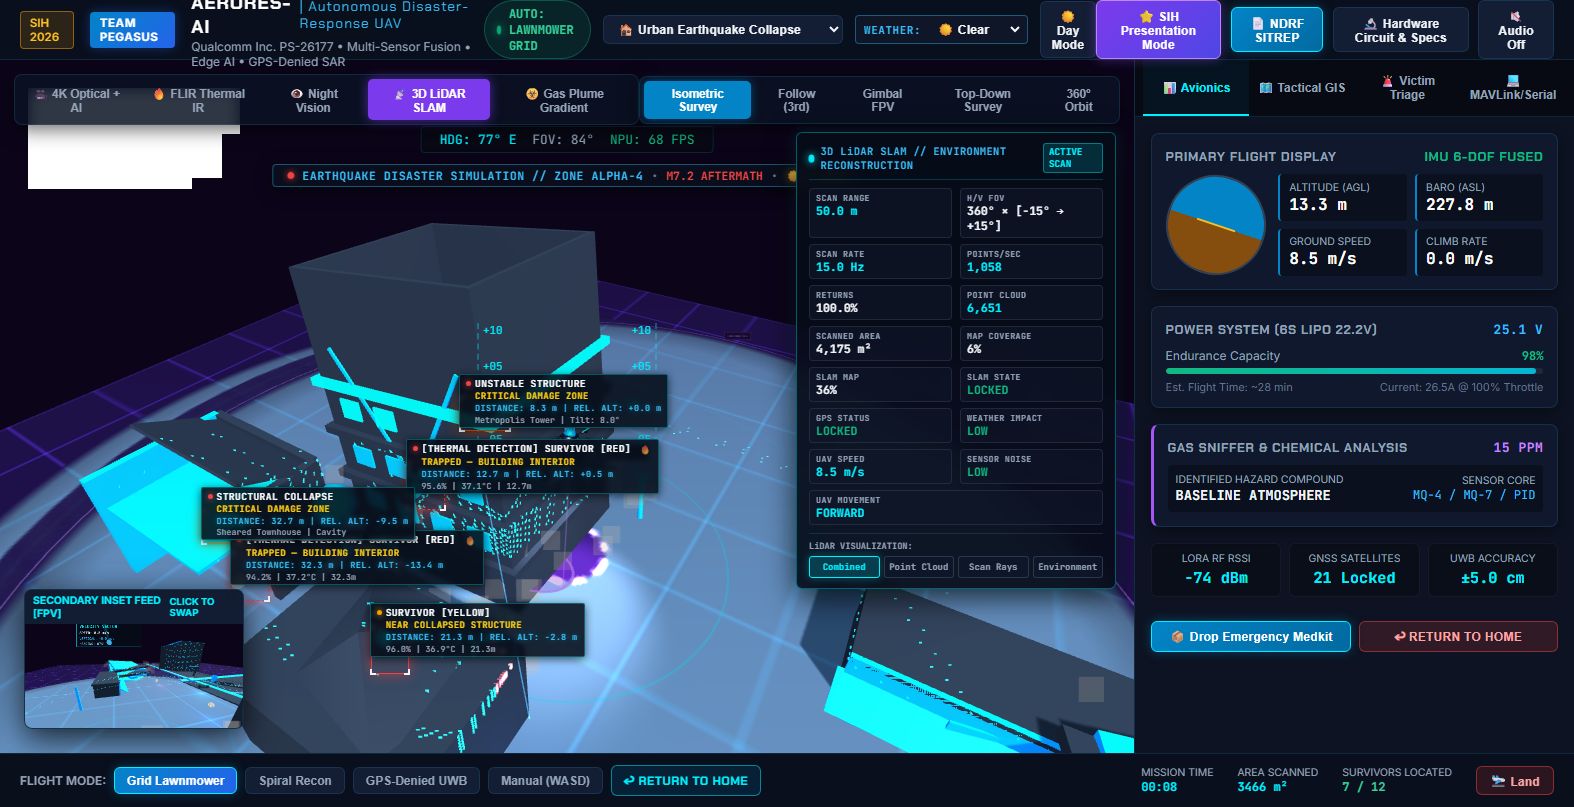
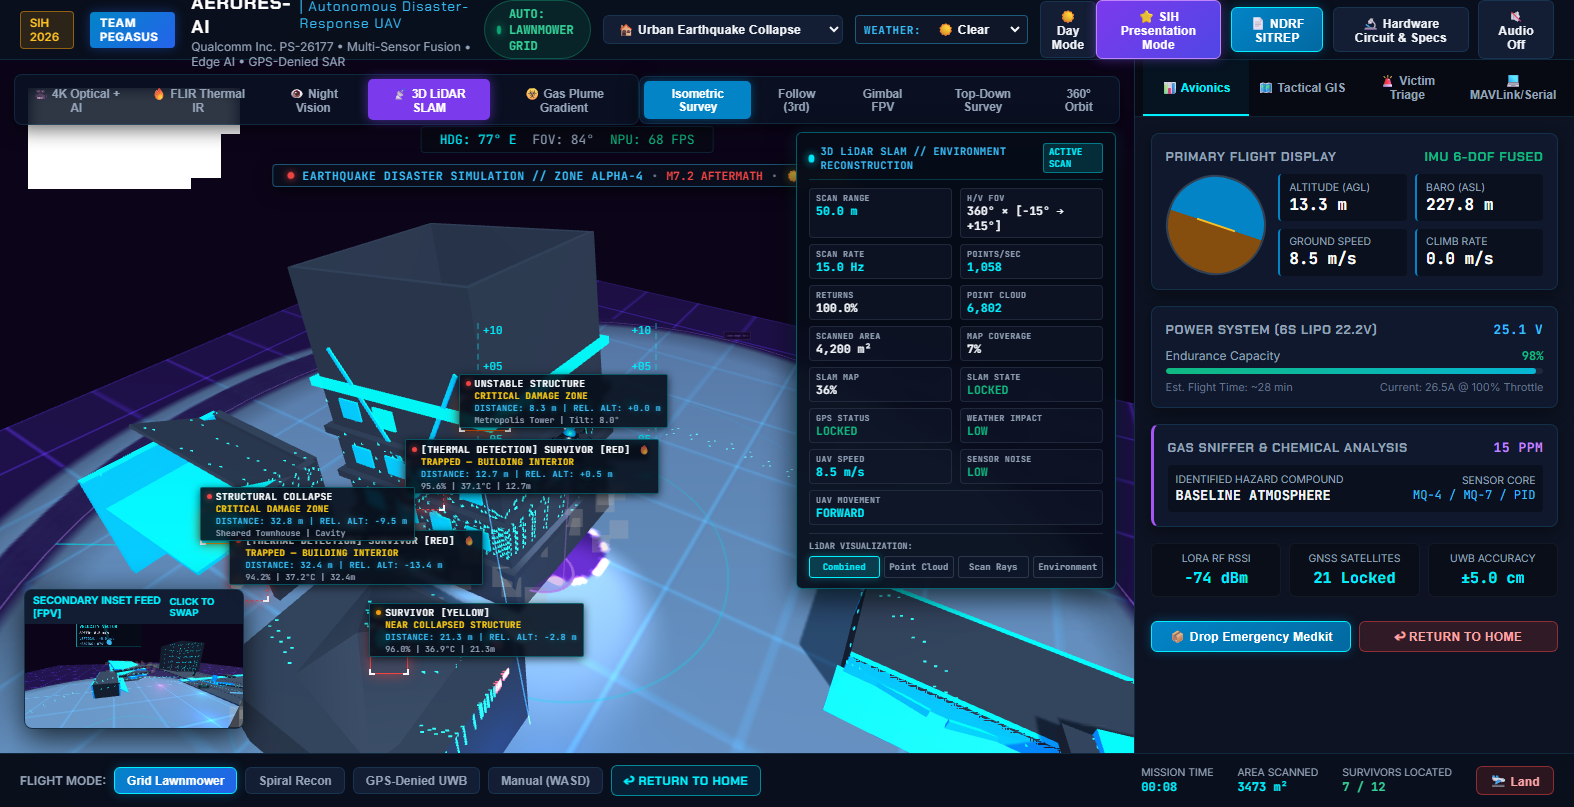
fix(lidar-slam): correct point cloud mode mesh hiding, minimap heading-vector alignment, survivor rubble occlusion, and dynamic range label

diff --git a/js/sensors.js b/js/sensors.js
@@ -205,6 +205,25 @@ class SensorFusionEngine {
     canvas.height = 80;
     const ctx = canvas.getContext('2d');
 
+    const texture = new THREE.CanvasTexture(canvas);
+    const spriteMat = new THREE.SpriteMaterial({
+      map: texture,
+      transparent: true,
+      opacity: 0.85,
+      depthWrite: false
+    });
+    const sprite = new THREE.Sprite(spriteMat);
+    sprite.scale.set(4.2, 1.3, 1.0);
+    sprite.userData = { canvas, ctx, texture, currentRange: 50.0 };
+    this.updateRangeBoundarySpriteText(sprite, 50.0);
+    return sprite;
+  }
+
+  updateRangeBoundarySpriteText(sprite, range) {
+    if (!sprite || !sprite.userData) return;
+    const { canvas, ctx, texture } = sprite.userData;
+
+    ctx.clearRect(0, 0, 256, 80);
     ctx.fillStyle = 'rgba(16, 6, 30, 0.88)';
     ctx.fillRect(0, 0, 256, 80);
 
@@ -215,18 +234,10 @@ class SensorFusionEngine {
     ctx.fillStyle = '#c084fc';
     ctx.font = 'bold 20px "JetBrains Mono", monospace';
     ctx.textAlign = 'center';
-    ctx.fillText('LiDAR RANGE: 50 m', 128, 48);
+    ctx.fillText(`LiDAR RANGE: ${Math.round(range)} m`, 128, 48);
 
-    const texture = new THREE.CanvasTexture(canvas);
-    const spriteMat = new THREE.SpriteMaterial({
-      map: texture,
-      transparent: true,
-      opacity: 0.85,
-      depthWrite: false
-    });
-    const sprite = new THREE.Sprite(spriteMat);
-    sprite.scale.set(4.2, 1.3, 1.0);
-    return sprite;
+    texture.needsUpdate = true;
+    sprite.userData.currentRange = range;
   }
 
   createMovementVectorSprite() {
@@ -708,23 +719,34 @@ class SensorFusionEngine {
       // Unscanned structures: hidden until scanned by LiDAR rays
       this.environment.environmentGroup.traverse(node => {
         if (node.isMesh) {
-          if (node.userData && (node.userData.isSurvivor || node.userData.isEmergencyBeacon)) return;
-          let p = node.parent;
-          let isSurvivor = false;
-          while (p) {
-            if (p.userData && (p.userData.isSurvivorGroup || p.userData.isSurvivor)) {
-              isSurvivor = true;
-              break;
-            }
-            p = p.parent;
-          }
-          if (isSurvivor) return;
-
           if (node.userData._origLidarMat === undefined) {
             node.userData._origLidarMat = node.material;
           }
           if (node.userData._origLidarVis === undefined) {
             node.userData._origLidarVis = node.visible;
+          }
+
+          let isSurvivor = !!(node.userData && (node.userData.isSurvivor || node.userData.isEmergencyBeacon));
+          let survivorData = null;
+          let p = node.parent;
+          while (p) {
+            if (p.userData && (p.userData.isSurvivorGroup || p.userData.isSurvivor)) {
+              isSurvivor = true;
+              if (p.userData.survivorData) survivorData = p.userData.survivorData;
+              break;
+            }
+            p = p.parent;
+          }
+
+          if (isSurvivor) {
+            // Requirement 15: Do not render a survivor visibly through rubble or walls
+            const isObstructed = survivorData ? !!survivorData.isObstructed : false;
+            if (isObstructed || !this.slamDiscoveredMeshes.has(node) || this.lidarVisMode === 'POINT_CLOUD') {
+              node.visible = false;
+            } else {
+              node.visible = true;
+            }
+            return;
           }
 
           const isGround = (node === this.environment.waterMesh || node === this.environment.channelMesh ||
@@ -817,11 +839,11 @@ class SensorFusionEngine {
     // Strict line-of-sight: only reveal immediate architectural sub-details on the exact same hit facet (< 1.6m)
     // Never reveal unseen opposing walls or unreached roofs without direct LiDAR ray intersection
     if (target.parent && target.parent !== this.environment.environmentGroup && target.parent !== this.drone.scene) {
-      const parentPos = target.parent.position;
       target.parent.children.forEach(sibling => {
         if (sibling.isMesh && !this.slamDiscoveredMeshes.has(sibling)) {
           if (hitPoint) {
-            const worldSibPos = sibling.position.clone().add(parentPos);
+            const worldSibPos = new THREE.Vector3();
+            sibling.getWorldPosition(worldSibPos);
             if (worldSibPos.distanceTo(hitPoint) < 1.6) {
               if (sibling.userData._origLidarMat === undefined) {
                 sibling.userData._origLidarMat = sibling.material;
@@ -1056,6 +1078,9 @@ class SensorFusionEngine {
     }
     if (this.lidarRangeLabel) {
       this.lidarRangeLabel.position.set(0, 1.2, -this.effectiveLidarRange);
+      if (this.lidarRangeLabel.userData && Math.abs(this.lidarRangeLabel.userData.currentRange - this.effectiveLidarRange) > 0.5) {
+        this.updateRangeBoundarySpriteText(this.lidarRangeLabel, this.effectiveLidarRange);
+      }
     }
 
     // Update Ground Exploration Canvas with Three-Zone Visualization (scanned grey space & purple blind footprint)
@@ -1254,14 +1279,17 @@ class SensorFusionEngine {
       }
     }
 
-    // Re-hide unscanned colliders so WebGL renderer does not pre-render them
+    // Re-hide unscanned colliders and enforce POINT_CLOUD mode visibility so solid meshes do not reappear
     for (let c = 0; c < colliders.length; c++) {
-      if (!this.slamDiscoveredMeshes.has(colliders[c])) {
-        const isGround = (colliders[c] === this.environment.waterMesh || colliders[c] === this.environment.channelMesh ||
-          (colliders[c].name && colliders[c].name.toLowerCase().includes('ground')) ||
-          (colliders[c].userData && colliders[c].userData.thermalType === 'road' && colliders[c].geometry && colliders[c].geometry.type === 'PlaneGeometry'));
-        if (!isGround) {
-          colliders[c].visible = false;
+      const col = colliders[c];
+      const isGround = (col === this.environment.waterMesh || col === this.environment.channelMesh ||
+        (col.name && col.name.toLowerCase().includes('ground')) ||
+        (col.userData && col.userData.thermalType === 'road' && col.geometry && col.geometry.type === 'PlaneGeometry'));
+      if (!isGround) {
+        if (!this.slamDiscoveredMeshes.has(col) || this.lidarVisMode === 'POINT_CLOUD') {
+          col.visible = false;
+        } else {
+          col.visible = true;
         }
       }
     }
@@ -1335,7 +1363,7 @@ class SensorFusionEngine {
     const uniqueCells = this.scannedGridCells.size;
     this.mappedAreaSqM = uniqueCells * (this.gridCellSize * this.gridCellSize);
     const coveragePct = Math.min(100, Math.floor((uniqueCells / this.totalSectorCells) * 100));
-    this.slamMapPct = Math.min(100, Math.max(12, Math.floor((this.slamDiscoveredMeshes.size / Math.max(1, colliders.length - 2)) * 100)));
+    this.slamMapPct = Math.min(100, Math.max(0, Math.floor((this.slamDiscoveredMeshes.size / Math.max(1, colliders.length - 2)) * 100)));
     this.lidarReturnsPct = parseFloat(((totalHitCount / this.maxScanRays) * 100).toFixed(1));
     this.lidarPointsPerSec = Math.round(this.maxScanRays * this.lidarScanRate * (this.lidarScanQuality / 100));
 
@@ -1543,6 +1571,22 @@ class SensorFusionEngine {
       this.trajectoryCount = 0;
       this.lidarTrajectoryLine.geometry.setDrawRange(0, 0);
       this.lidarTrajectoryLine.geometry.attributes.position.needsUpdate = true;
+    }
+
+    if (this.lidarImpactPoints && this.lidarImpactPoints.geometry) {
+      const imp = this.lidarImpactPoints.geometry.attributes.position.array;
+      for (let i = 0; i < this.maxScanRays; i++) {
+        imp[i * 3 + 1] = -500;
+      }
+      this.lidarImpactPoints.geometry.attributes.position.needsUpdate = true;
+    }
+
+    if (this.lidarScanRays && this.lidarScanRays.geometry) {
+      const rPos = this.lidarScanRays.geometry.attributes.position.array;
+      for (let i = 0; i < this.maxScanRays * 2; i++) {
+        rPos[i * 3 + 1] = -500;
+      }
+      this.lidarScanRays.geometry.attributes.position.needsUpdate = true;
     }
 
     if (this.sensorMode === 'LIDAR' && this.environment && this.environment.environmentGroup) {

diff --git a/js/map.js b/js/map.js
@@ -195,10 +195,11 @@ class TacticalGisMap {
     ctx.textBaseline = 'middle';
     ctx.fillText('HOME STATION', hScreen.x + 12, hScreen.y);
 
-    // Draw Drone Position & Sensor FOV Cone
+    // Draw Drone Position & Sensor FOV Wedge
     const dronePos = this.drone.group.position;
     const dScreen = this.worldToScreen(dronePos.x, dronePos.z);
     const yaw = this.drone.group.rotation.y;
+    const screenAngle = Math.PI / 2 - yaw;
 
     // Sensor FOV wedge
     ctx.fillStyle = 'rgba(0, 240, 255, 0.12)';
@@ -206,21 +207,21 @@ class TacticalGisMap {
     ctx.moveTo(dScreen.x, dScreen.y);
     const fovAngle = 0.6;
     const fovLen = 35;
-    ctx.arc(dScreen.x, dScreen.y, fovLen, -yaw - Math.PI / 2 - fovAngle / 2, -yaw - Math.PI / 2 + fovAngle / 2);
+    ctx.arc(dScreen.x, dScreen.y, fovLen, screenAngle - fovAngle / 2, screenAngle + fovAngle / 2);
     ctx.closePath();
     ctx.fill();
 
     // Drone Icon
     ctx.save();
     ctx.translate(dScreen.x, dScreen.y);
-    ctx.rotate(-yaw);
+    ctx.rotate(screenAngle);
 
     // Cross frame
     ctx.strokeStyle = '#00f0ff';
     ctx.lineWidth = 2.2;
     ctx.beginPath();
-    ctx.moveTo(-7, -7); ctx.lineTo(7, 7);
-    ctx.moveTo(7, -7); ctx.lineTo(-7, 7);
+    ctx.moveTo(-6, -6); ctx.lineTo(6, 6);
+    ctx.moveTo(6, -6); ctx.lineTo(-6, 6);
     ctx.stroke();
 
     // Center core
@@ -229,12 +230,12 @@ class TacticalGisMap {
     ctx.arc(0, 0, 3.5, 0, Math.PI * 2);
     ctx.fill();
 
-    // Nose pointer
+    // Nose pointer along local heading vector
     ctx.fillStyle = '#ef4444';
     ctx.beginPath();
-    ctx.moveTo(0, -9);
-    ctx.lineTo(3, -4);
-    ctx.lineTo(-3, -4);
+    ctx.moveTo(9, 0);
+    ctx.lineTo(4, -3);
+    ctx.lineTo(4, 3);
     ctx.closePath();
     ctx.fill();
 

diff --git a/test_lidar_slam_deep_verification.py b/test_lidar_slam_deep_verification.py
@@ -508,9 +508,15 @@ try:
     assert dust_w['range'] <= 26.0, "Dust range must be heavily degraded to <= 26m!"
     assert dust_w['impact'] == 'HIGH', "Dust impact must be HIGH!"
 
+    # Dynamic range boundary label check
+    range_lbl_check = eval_js(s, "window.droneApp.sensors.lidarRangeLabel.userData && window.droneApp.sensors.lidarRangeLabel.userData.currentRange <= 26.0")
+    print(f"  Range label dynamically updated for dust: {range_lbl_check}")
+    assert range_lbl_check, "Range label sprite must dynamically update to match degraded range!"
+
     # Restore clear
     eval_js(s, "window.droneApp.environment.setWeather('clear')")
     time.sleep(0.3)
+    eval_js(s, "window.droneApp.sensors.updateLidarScan(0.05)")
 
     # 9. Clean Sensor Switching (Preserve 4K Optical, FLIR Thermal, NVG, Gas Plume)
     print("\n=== TEST 9: Seamless Switching & Sensor Mode Preservation ===")
@@ -543,12 +549,43 @@ try:
     print(f"  Switched back to LIDAR: {lidar_restored}")
     assert lidar_restored, "LiDAR mode must resume seamlessly!"
 
+    # 9B. Point Cloud Mode Solid Mesh Occlusion (Bug Fix Verification)
+    print("\n=== TEST 9B: Point Cloud Visualization Mode Mesh Hiding ===")
+    eval_js(s, "window.droneApp.sensors.setLidarVisMode('POINT_CLOUD')")
+    eval_js(s, "window.droneApp.sensors.updateLidarScan(0.016)")
+    pc_mesh_hidden = eval_js(s, """(() => {
+        let solidVisible = 0;
+        window.droneApp.sensors.slamDiscoveredMeshes.forEach(m => {
+            if (m.visible) solidVisible++;
+        });
+        return solidVisible === 0;
+    })()""")
+    print(f"  POINT_CLOUD mode hides all solid discovered meshes: {pc_mesh_hidden}")
+    assert pc_mesh_hidden, "POINT_CLOUD mode must hide all solid meshes!"
+    eval_js(s, "window.droneApp.sensors.setLidarVisMode('COMBINED')")
+    eval_js(s, "window.droneApp.sensors.updateLidarScan(0.016)")
+
+    # 9C. Survivor Line-of-Sight & Rubble Occlusion in LiDAR Mode
+    print("\n=== TEST 9C: Survivor Line-of-Sight & Rubble Occlusion ===")
+    surv_hidden = eval_js(s, """(() => {
+        const s0 = window.droneApp.environment.survivors[0];
+        let meshVisible = false;
+        if (s0.meshGroup) {
+            s0.meshGroup.traverse(node => {
+                if (node.isMesh && node.visible) meshVisible = true;
+            });
+        }
+        return !meshVisible;
+    })()""")
+    print(f"  Obstructed survivor mesh hidden in LiDAR mode: {surv_hidden}")
+    assert surv_hidden, "Obstructed survivor mesh must not render through rubble in LiDAR mode!"
+
     # 10. Capture High-Resolution Verification Screenshot
     print("\n=== TEST 10: Capture High-Resolution Verification Screenshot ===")
     take_screenshot(s, 'lidar_slam_complete_verification.png')
 
     print("\n=======================================================")
-    print("  ALL 10 3D LiDAR SLAM ADVANCED VERIFICATION TESTS PASSED!")
+    print("  ALL 3D LiDAR SLAM ADVANCED VERIFICATION TESTS PASSED!")
     print("=======================================================\n")
 
     # Clean up redundant untracked file if present
@@ -558,14 +595,6 @@ try:
             print("Cleaned up redundant test_uav_movement_vector_and_lidar_slam.py")
         except Exception as e:
             print("Cleanup note:", e)
-
-    # Local git commit on branch devansh
-    try:
-        subprocess.run(["git", "add", "index.html", "js/drone.js", "js/map.js", "js/sensors.js", "lidar_slam_and_disaster_verification.png", "lidar_slam_complete_verification.png", "test_lidar_slam_deep_verification.py"], check=True)
-        res = subprocess.run(["git", "commit", "-m", "feat: complete 3D LiDAR SLAM scanning, reconstruction and UAV movement vector"], capture_output=True, text=True)
-        print("Git commit output:\n", res.stdout, res.stderr)
-    except Exception as e:
-        print("Git commit error:", e)
 
 finally:
     try:
